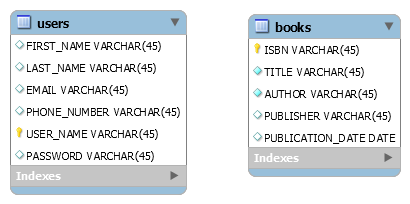
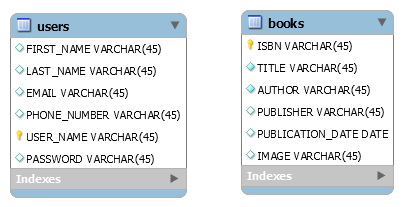
Added new image field to books.

diff --git a/src/com/gcu/model/EBook.java b/src/com/gcu/model/EBook.java
@@ -20,6 +20,8 @@ public class EBook {
 	@NotNull(message="There must be an author for the book!")
 	String author;
 	
+	String image;
+	
 	String publisher;
 	
 	@DateTimeFormat(pattern="ddMMyyyy")
@@ -32,6 +34,7 @@ public class EBook {
 		this.author = "";
 		this.publisher = "";
 		this.publicationDate = new Date(0);
+		this.image = "";
 	}
 	
 	//assignment constructor
@@ -39,13 +42,15 @@ public class EBook {
 			@NotNull(message = "There must be a valid ISBN for this book!") @Size(min = 10, max = 10, message = "The ISBN must be 10 characters long!") String isbn,
 			@NotNull(message = "Book must contain a title!") String title,
 			@NotNull(message = "There must be an author for the book!") String author, String publisher,
-			@DateTimeFormat(pattern="ddMMyyyy") Date publicationDate) {
+			@DateTimeFormat(pattern="ddMMyyyy") Date publicationDate,
+			String image) {
 		super();
 		this.isbn = isbn;
 		this.title = title;
 		this.author = author;
 		this.publisher = publisher;
 		this.publicationDate = publicationDate;
+		this.image = image;
 	}
 
 	
@@ -89,4 +94,13 @@ public class EBook {
 	public void setPublicationDate(Date publicationDate) {
 		this.publicationDate = publicationDate;
 	}
+
+	public String getImage() {
+		return image;
+	}
+
+	public void setImage(String image) {
+		this.image = image;
+	}
+	
 }

diff --git a/src/com/gcu/data/BookDataAccessService.java b/src/com/gcu/data/BookDataAccessService.java
@@ -35,6 +35,7 @@ public class BookDataAccessService implements IDataAccessService<EBook> {
 				eBook.setPublisher(result.getString("PUBLISHER"));
 				eBook.setPublicationDate(result.getDate("PUBLICATION_DATE"));
 				eBook.setIsbn(result.getString("ISBN"));
+				eBook.setImage(result.getString("IMAGE"));
 			}
 			
 			//close up connections
@@ -61,13 +62,14 @@ public class BookDataAccessService implements IDataAccessService<EBook> {
 		try {
 			
 			//set up prepared SQL statement
-			String query = "INSERT INTO books (TITLE, AUTHOR, PUBLISHER, PUBLICATION_DATE, ISBN) VALUES (?, ?, ?, ?, ?)";
+			String query = "INSERT INTO books (TITLE, AUTHOR, PUBLISHER, PUBLICATION_DATE, IMAGE, ISBN) VALUES (?, ?, ?, ?, ?, ?)";
 			PreparedStatement stmt = conn.prepareStatement(query);
 			stmt.setString(1, t.getTitle());
 			stmt.setString(2, t.getAuthor());
 			stmt.setString(3, t.getPublisher());
 			stmt.setDate(4, t.getPublicationDate());
-			stmt.setString(5, t.getIsbn());
+			stmt.setString(5, t.getImage());
+			stmt.setString(6, t.getIsbn());
 			
 			//execute statement and set the results
 			int result = stmt.executeUpdate();
